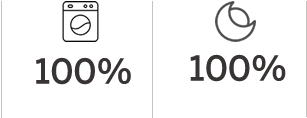
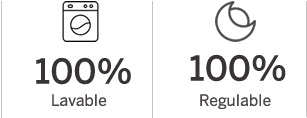
Ajustes Varios Idem - 2

Changed region(s): [[0.645, 0.7881, 0.9088, 0.9407], [0.1466, 0.7881, 0.3518, 0.9153]]

diff --git a/item-productos.html b/item-productos.html
@@ -139,22 +139,46 @@
                                     <!-- Wrapper for slides -->
                                     <div class="carousel-inner cont-slider">
                                        <div class="item active">
-                                          <img alt="" title="" src="./img/item-producto/destacada1.jpg">
+                                          <img alt="" title="" src="./img/item-producto/blackout.jpg">
                                        </div>
                                        <div class="item">
-                                          <img alt="" title="" src="./img/item-producto/destacada2.jpg">
+                                          <img alt="" title="" src="./img/item-producto/blackout1.jpg">
                                        </div>
                                        <div class="item">
-                                          <img alt="" title="" src="./img/item-producto/destacada3.jpg">
+                                          <img alt="" title="" src="./img/item-producto/blackout2.jpg">
                                        </div>
                                        <div class="item">
-                                          <img alt="" title="" src="./img/item-producto/destacada4.jpg">
+                                          <img alt="" title="" src="./img/item-producto/blackout3.jpg">
                                        </div>
                                        <div class="item">
-                                          <img alt="" title="" src="./img/item-producto/destacada5.jpg">
+                                          <img alt="" title="" src="./img/item-producto/blackout4.jpg">
                                        </div>
                                        <div class="item">
-                                          <img alt="" title="" src="./img/item-producto/destacada6.jpg">
+                                          <img alt="" title="" src="./img/item-producto/blackout5.jpg">
+                                       </div>
+                                       <div class="item">
+                                          <img alt="" title="" src="./img/item-producto/blackout6.jpg">
+                                       </div>
+                                       <div class="item">
+                                          <img alt="" title="" src="./img/item-producto/blackout7.jpg">
+                                       </div>
+                                       <div class="item">
+                                          <img alt="" title="" src="./img/item-producto/blackout9.jpg">
+                                       </div>
+                                       <div class="item">
+                                          <img alt="" title="" src="./img/item-producto/blackout10.jpg">
+                                       </div>
+                                       <div class="item">
+                                          <img alt="" title="" src="./img/item-producto/blackout11.jpg">
+                                       </div>
+                                       <div class="item">
+                                          <img alt="" title="" src="./img/item-producto/blackout12.jpg">
+                                       </div>
+                                       <div class="item">
+                                          <img alt="" title="" src="./img/item-producto/blackout13.jpg">
+                                       </div>
+                                       <div class="item">
+                                          <img alt="" title="" src="./img/item-producto/blackout14.jpg">
                                        </div>
                                     </div>
                                     <!-- Left and right controls -->

diff --git a/index.html b/index.html
@@ -172,6 +172,7 @@
                         <a href="item-productos.html" class="titulo-producto">Cortina Blackout</a>
                         <p class="descripcion-producto">1.4 mts x 1.5 mts</p>
                         <p class="precio-producto">$1140</p>
+                        <a href="item-productos.html" class="btn btn-primary">Comprar</a>
                       </div>
                     </div>
                     <div class="col-sm-3">
@@ -180,6 +181,7 @@
                         <a href="item-productos.html" class="titulo-producto">Bandas Verticales</a>
                         <p class="descripcion-producto">1.4 mts x 1.5 mts</p>
                         <p class="precio-producto">$1140</p>
+                        <a href="item-productos.html" class="btn btn-primary">Comprar</a>
                       </div>
                     </div>
                     <div class="col-sm-3">
@@ -188,6 +190,7 @@
                         <a href="item-productos.html" class="titulo-producto">Cortina Sunscreen</a>
                         <p class="descripcion-producto">1.4 mts x 1.5 mts</p>
                         <p class="precio-producto">$1140</p>
+                        <a href="item-productos.html" class="btn btn-primary">Comprar</a>
                       </div>
                     </div>
                     <div class="col-sm-3">
@@ -196,6 +199,7 @@
                         <a href="item-productos.html" class="titulo-producto">Cortina Roller Dual</a>
                         <p class="descripcion-producto">1.4 mts x 1.5 mts</p>
                         <p class="precio-producto">$1140</p>
+                        <a href="item-productos.html" class="btn btn-primary">Comprar</a>
                       </div>
                     </div>
                   </div>
@@ -207,6 +211,7 @@
                         <a href="item-productos.html" class="titulo-producto">Cortina Doble Sistema</a>
                         <p class="descripcion-producto">1.4 mts x 1.5 mts</p>
                         <p class="precio-producto">$1140</p>
+                        <a href="item-productos.html" class="btn btn-primary">Comprar</a>
                       </div>
                     </div>
                     <div class="col-sm-3">
@@ -215,6 +220,7 @@
                         <a href="item-productos.html" class="titulo-producto">Toldo Brazo Invisible</a>
                         <p class="descripcion-producto">1.4 mts x 1.5 mts</p>
                         <p class="precio-producto">$1140</p>
+                        <a href="item-productos.html" class="btn btn-primary">Comprar</a>
                       </div>
                     </div>
                     <div class="col-sm-3">
@@ -223,6 +229,7 @@
                         <a href="item-productos.html" class="titulo-producto">Toldo Vertical</a>
                         <p class="descripcion-producto">1.4 mts x 1.5 mts</p>
                         <p class="precio-producto">$1140</p>
+                        <a href="item-productos.html" class="btn btn-primary">Comprar</a>
                       </div>
                     </div>
                     <div class="col-sm-3">
@@ -231,6 +238,7 @@
                         <a href="item-productos.html" class="titulo-producto">Cortina Blackout</a>
                         <p class="descripcion-producto">1.4 mts x 1.5 mts</p>
                         <p class="precio-producto">$1140</p>
+                        <a href="item-productos.html" class="btn btn-primary">Comprar</a>
                       </div>
                     </div>
                   </div>

diff --git a/css/estilos.css b/css/estilos.css
@@ -588,7 +588,7 @@ h1 {
     font-size: 18px;
     margin-top: 20px;
     display: block;
-    margin-bottom: 10px;
+    color: #000;
 }
 
 .precio-producto {
@@ -803,7 +803,7 @@ h1 {
     font-family: 'Aquawax-Light';
     text-transform: uppercase;
     min-height: 20px;
-    padding: 10px 25px 10px 25px !important;
+    padding: 15px 25px 15px 25px !important;
     background: #FF7A00 !important;
     color: #fff !important;
     display: block;
@@ -1144,7 +1144,7 @@ h1 {
 		margin: 75px auto;
 		position: absolute;
 		text-align: left;
-		top: 60px;
+		top: 20px;
 		padding-left: 15px;
 		max-height: 200px;
         }
@@ -1189,7 +1189,7 @@ h1 {
 }
 
 .modal-fullscreen {
-	background: transparent;
+    background: #fff;
 }
 
 .modal-fullscreen .modal-content {
@@ -1208,7 +1208,26 @@ h1 {
 	filter: alpha(opacity=97);
 }
 
+#fullGallery .modal-header .close {
+    color: #000;
+    opacity: 0.5;
+    font-size: 40px;
+}
+#fullGallery  .modal-fullscreen .carousel-inner > .item > img {
+    max-height: 810px;
+}
+.carousel-control {color: #000;}
 
+.carousel-control:focus, .carousel-control:hover {
+    color: #000;
+}
+
+.carousel-control.left {left: -15%;
+}
+.carousel-control.right {
+    right: -15%;
+    }
+    
 /* .modal-fullscreen size: we use Bootstrap media query breakpoints */
 
 .modal-fullscreen .modal-dialog {

diff --git a/cortinas.html b/cortinas.html
@@ -150,6 +150,7 @@
                      <div class="col-sm-4 pad25">
                         <h2 class="gris">Roller Blackout</h2>
                         <p class="bottom40">Lorem ipsum dolor sit amet, consectetur adipiscing elit. Vestibulum id nibh ex. Mauris non rutrum ligula. Quisque non ornare eros. Duis diam magna, consectetur quis eros vitae, ultrices semper erat. Maecenas ac eros odio. Donec non interdum nisi, dapibus suscipit ante. Sed id lacus eget ex suscipit egestas id suscipit sem. Nam id lectus nisi. Maecenas eleifend euismod urna vel ultrices. </p>
+                        <img class="img-center" src="./img/cortinas/100.png" alt="">
                         <a href="item-productos.html" class="btn-comprar">Comprar</a>
                      </div>
  <div class="col-lg-1 noPadding"></div>
